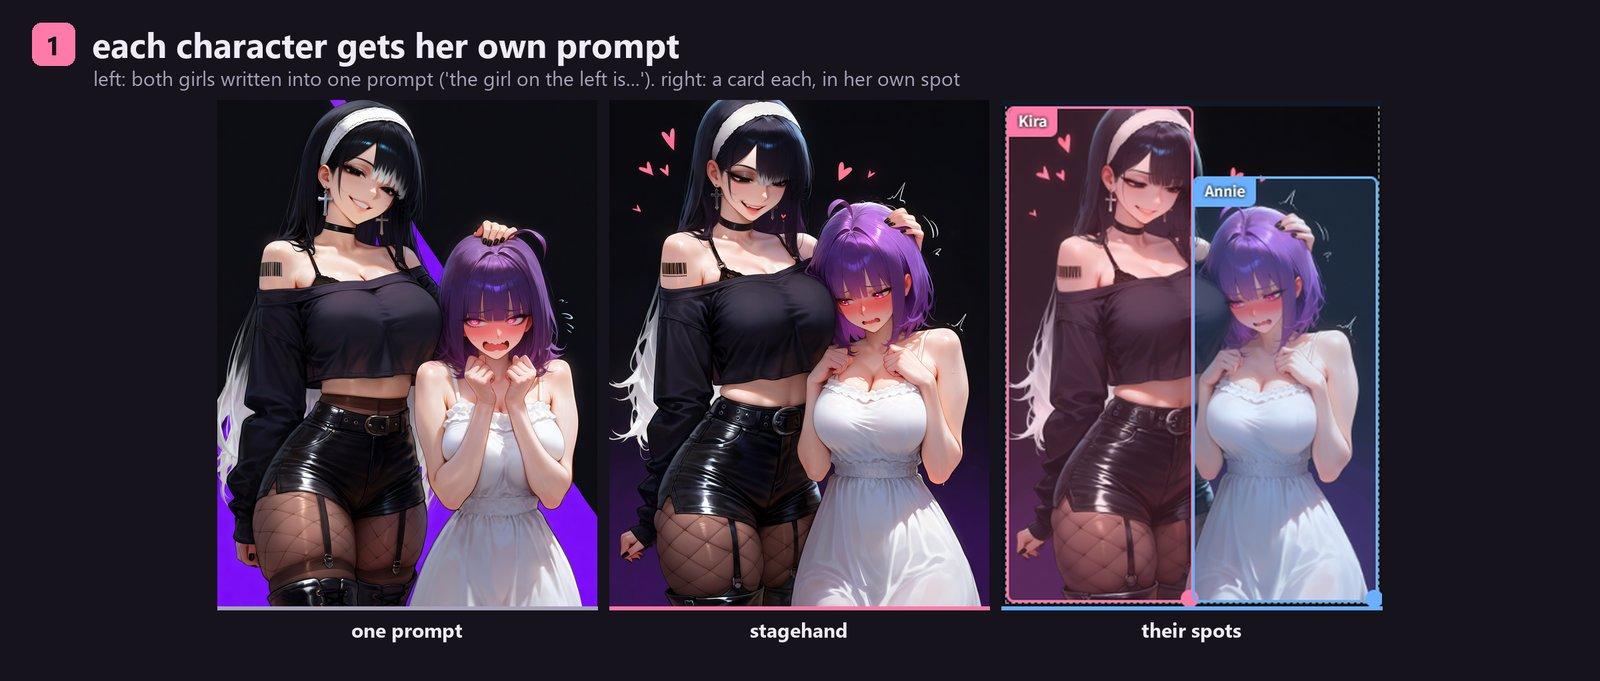
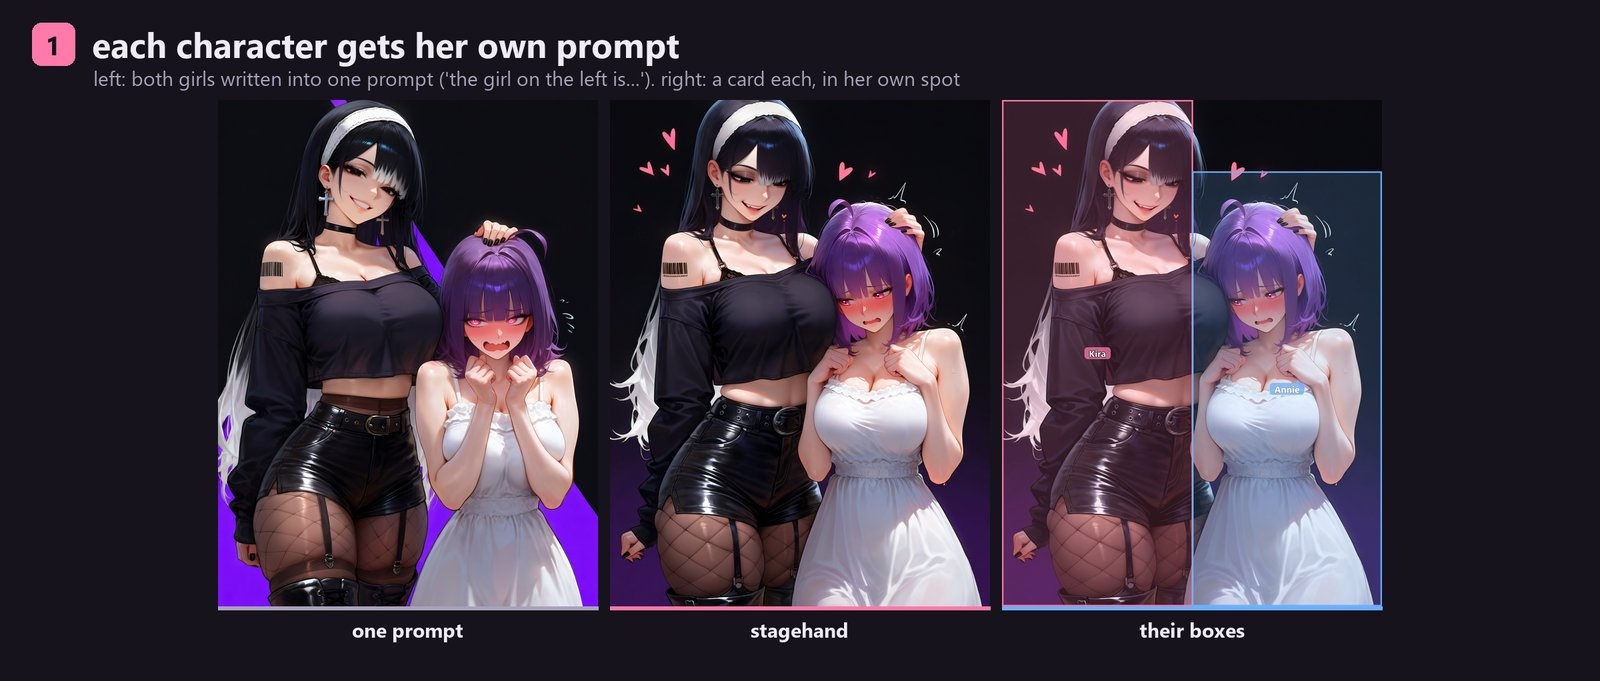
README examples: the upscaled images with their boxes drawn on at full size
Each layout is the finished image, then the same image with its characters' places drawn as
Stagehand's on-image overlay does (read from its PNG info), instead of UI screenshots.

diff --git a/README.md b/README.md
@@ -37,7 +37,7 @@ i'd rather not type LMAO
 **Each character gets her own prompt.** Left: both girls described in one prompt ("the girl on
 the left is..."). Right: a Character Prompts card each, in her own spot.
 
-![Two characters in one prompt versus a card each](examples/1-characters.jpg)
+![Two characters in one prompt versus a card each, and their boxes](examples/1-characters.jpg)
 
 **Put them where you want**: AI's Choice, boxes you drag, or NovelAI's 5×5 grid, for up to
 10 characters (a "character" can be a thing: a box, a bird, a screen).
@@ -47,7 +47,7 @@ the left is..."). Right: a Character Prompts card each, in her own spot.
 **Character LoRAs stay on their character** (Masked, the default): each LoRA only works inside
 her own area.
 
-![Two and three character LoRAs in one image](examples/3-character-loras.jpg)
+![Three character LoRAs in one image, and each one's area](examples/3-character-loras.jpg)
 
 **Precise Reference** copies a character's look from a picture, no LoRA needed.
 
